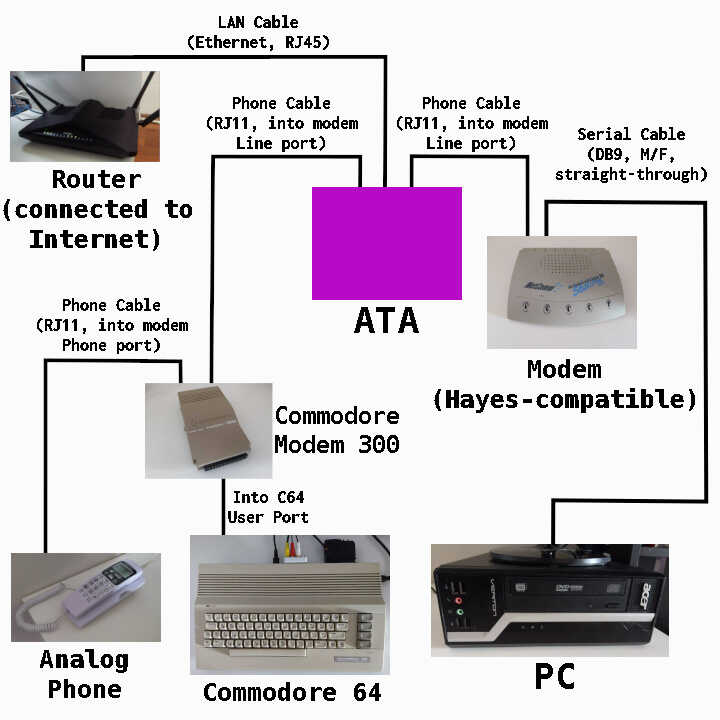
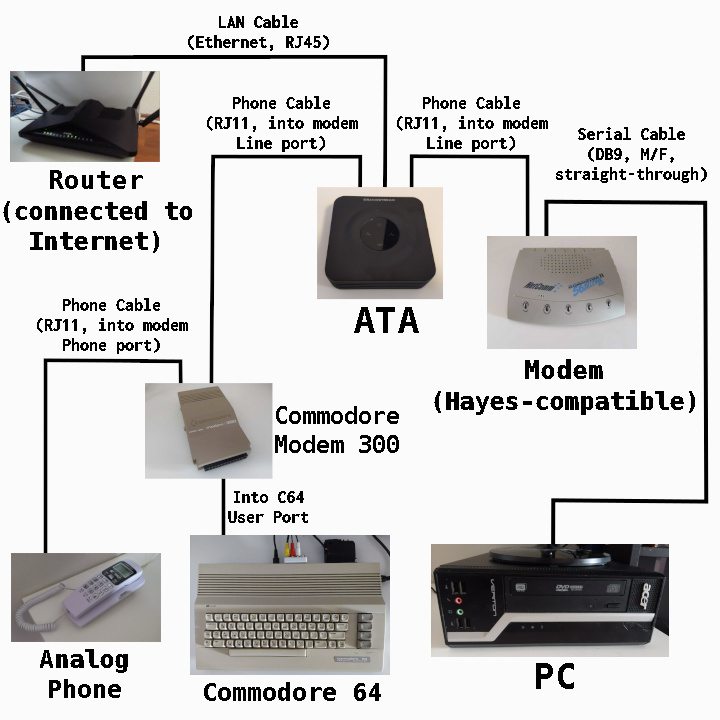
Work on modem post

diff --git a/content/blog/dial-up-over-voip-with-a-commodore-modem-from-1985/index.md b/content/blog/dial-up-over-voip-with-a-commodore-modem-from-1985/index.md
@@ -3,8 +3,12 @@ title = "Dial-Up over VoIP with a Commodore Modem from 1985"
 date = 2026-02-20
 path = "dial-up-over-voip-with-a-commodore-modem-from-1985"
 description = "Guide for setting up a point-to-point dial-up network between a pair of computers using old-fashioned modems connected over VoIP lines"
+
 [taxonomies]
 tags = ["retrocomputing"]
+
+[extra]
+og_image = "setup.jpg"
 +++
 
 I connected a pair of computers with a 300 bits/s point-to-point dial-up
@@ -16,7 +20,7 @@ dial-up networking. It's also become more difficult over time because telcos
 have started digitizing landlines employing codecs and audio filtering
 optimized for voice that can interfere with the tones that dial-up modems use
 to communicate. VoIP phone lines have been known to suffer from similar issues,
-but at least give users some amount of control over the digitization process.
+but at least give users some amount of control over how the signal is digitized.
 
 Despite this I thought it would be really cool to connect my Commodore 64 to
 some dial-up BBSes. But then I realized that there aren't any left in Australia
@@ -28,22 +32,133 @@ Hayes-compatible modem so telephony-wise I was really starting from scratch. Thi
 post is aimed at me two months ago and anyone else curious about going online
 like it's 1985 but aren't sure how to start.
 
-![Commodore Modem 300 side view showing custom headphone jack](commodore-modem-headphones-jack.jpg)
+Here's my setup:
 
-![Commodore Modem 300 top view](commodore-modem-top.jpg)
+![Desk with a pair of computers. On the left is a Commodore 64 and on the right is a PC. Between them is an analog telephone adapter and dial-up modem](setup.jpg)
 
-![Commodore Modem 300 front view showing user port connector](commodore-modem-front.jpg)
+On the left is a Commodore 64 with a Commodore 300 Modem attached.
+On the right is a regular PC running Linux. In between, the beige box
+is a dial-up modem connected to the PC's serial port, and the black
+box is an analog telephone adapter (ATA) which converts analog telephone
+signals to VoIP. Both modems are attached to the ATA with phone cables.
 
-![Commodore Modem 300 rear view showing Audio In, Phone, and Line jacks](commodore-modem-back.jpg)
+And here's a diagram showing all the devices involved and how they're connected to each other.
+
+![Topology of dial-up setup](topology.jpg)
+
+I can call the PC's modem from the Commodore, and once connected, when I type
+on the Commodore the text appears on the PC's terminal, and typing in the PC's
+causes the text to appear on the Commodore.
+
+## Analog Telephone Adapter (ATA)
+
+An ATA is a device which converts analog phone signals to VoIP.
+I'm using a Grandstream HT802 v2 as my ATA which has two telephone ports
+allowing me to plug in both modems. I made an account with a VoIP provider
+(Crazytel), set up two SIPs, each with their own associated phone number, and
+then registered one SIP for each port of the ATA via its web interface.
+
+Dial-up networking over VoIP requires as raw a signal as possible being sent between the modems.
+Make sure the first choice of codec is PCMU, also known as G.711, which is the highest quality
+codec available on most ATAs. Also make sure any echo or silence suppression provided by the ATA
+is disabled. Enable jitter buffering (it's probably enabled by default). I found it's most reliable
+to use the maximum amount of jitter buffering available on the ATA.
+
+Test the ATA setup by making calls between each VoIP phone number and your mobile phone by plugging
+an analog phone into each port on the ATA.
+
+## PC and dial-up modem
+
+My modem is a NetComm Roadster II 56 Ultra SVD. There's not much information about it online and I
+wasn't able to dig up a manual, but there are some photos [here](https://wiki.preterhuman.net/NetComm_Roadster_II_56_Ultra_SVD) and it's also mentioned [here](https://goughlui.com/2012/11/27/tech-flashback-other-external-modems-in-my-collection/).
+
+Here it is. The lights on the front are labeled: Power, Terminal Ready, Off Hook, Carrier Detect, Data.
 
 ![Netcomm Roadster II 56 Ultra modem, isometric view](netcomm-modem-iso.jpg)
 
-![Netcomm Roadster II 56 Ultra modem, top view showing status lights: Power, Terminal Ready, Off Hook, Carrier Detect, Data](netcomm-modem-top.jpg)
+Here's the back. The "Data" port is how it connects to the PC.
 
 ![Netcomm Roadster II 56 Ultra modem, rear view showing jacks: Power, Data, Phone, Line](netcomm-modem-back.jpg)
 
+You'll need a DB9 male to female serial cable like this one to connect it to a PC:
+
+![The ends of a DB9 M/F serial cable](serial-cable.jpg)
+
+I was lucky enough to find a computer under a bridge which is old enough to still have a
+DB9 port but new enough to run a modern OS. Most computers from the past decade or so don't have this port
+but it should be easy to find a USB to DB9 adapter.
+
+To interact with the modem from the PC you'll need terminal software that can send and receive data
+over a serial port. On Linux I usually use `picocom`. Once everything is connected and powered on, run
+`picocom /dev/ttyS0` from a terminal. Typing in a picocom session sends characters over the serial connection.
+Eventually we'll use this to send characters all the way to the Commodore 64 via the dial-up network, but
+for now the characters will be interpreted by the modem, which implements the
+[Hayes AT command set](https://en.wikipedia.org/wiki/Hayes_AT_command_set).
+These are commands for configuring a modem or performing actions such as
+dialing a number or answering a call.
+
+To test that the modem is working, try typing `AT` (then hit enter), to which the modem should reply with `OK`.
+Test that the modem can receive calls by connecting it to one of the ATA's phone ports with a phone cable
+and then calling number associated with that port (with your mobile phone).
+When I do this the modem sends the word `RING` over the serial connection. The
+command to answer a call is `ATA` (it's a coincidence that this is the name for
+the device for connecting analog devices to VoIP). The modem will probably send
+some beeps over the phone connection then give up when it doesn't receive a
+carrier signal. The command to end a call is `ATH`. It's not directly relevant to this setup,
+but you can also dial a number from the modem with the command `ATDT` followed by the number.
+
+## Commodore 64 and Commodore Modem 300
+
+Here's my Commodore 64:
+
 ![Commodore 64 top view showing RCA adapter and SD2IEC peripherals](c64-top.jpg)
 
-![Analog phone](analog-phone.jpg)
+I'm using a [SD2IEC](https://www.c64-wiki.com/wiki/SD2IEC) device (the black
+box at the top right) to run programs from an SD card.
 
-![Topology of dial-up setup](topology.jpg)
+The Commodore Modem plugs into the Commodore 64's user port. Here's the modem:
+
+![Commodore Modem 300 front view showing user port connector](commodore-modem-front.jpg)
+
+This modem doesn't have built-in support for generating the touch tones to dial a number.
+Instead, there's an "Audio In" jack on the back which you can play touch tones into.
+The intended usage was to connect the audio signal coming out of the Commodore 64 itself
+to this jack and then use the Commodore 64's sound chip to generate touch tones.
+The terminal software I'm using on the Commodore doesn't have support for generating these tones
+however. One approach which works is to generate the tones from another device like a laptop or phone.
+There's lots of software out there for generating DTMF touch tones! Another approach is to use
+an analog phone to initialize the call and then hand the call over to the modem once the phone starts ringing.
+
+![Commodore Modem 300 rear view showing Audio In, Phone, and Line jacks](commodore-modem-back.jpg)
+
+The modem has a built-in speaker which lets you hear the dial tone and other phone noises to understand
+what state the line is in. Unfortunately it's really loud and of poor quality, and there's no way to turn
+it down or off. After a day of this I decided to make some modifications and added this headphone jack
+to the side, and now I can plug in a speaker with a volume knob. The audio
+quality was also dramatically improved. This headphone jack also makes it possible to record the raw
+audio signal received by the modem, which wasn't possible before.
+
+![Commodore Modem 300 side view showing custom headphone jack](commodore-modem-headphones-jack.jpg)
+
+The terminal program I'm using on the Commodore is [Novaterm](https://www.c64-wiki.com/wiki/Novaterm)
+which I'm loading off an SD card with the SD2IEC device.
+Here's the main menu:
+
+![Main menu of Novaterm program](novaterm1.jpg)
+
+The configuration to make Novaterm work with the Commodore modem is below.
+On the first configuration page, the `Modem type` must be set to `1660`.
+
+![First configuration page of Novaterm program](novaterm2.jpg)
+
+On the second configuration page, the `Serial driver` must be `User port`.
+Also enable `Print in ASCII` since the Linux side of the connection will assume text is ASCII-encoded.
+
+![Second configuration page of Novaterm program](novaterm3.jpg)
+
+Once Novaterm is configured you can save the configuration to the SD card, then
+enter the terminal by selecting `Terminal mode` from the main menu.
+
+![Terminal mode of Novaterm program](novaterm4.jpg)
+
+
